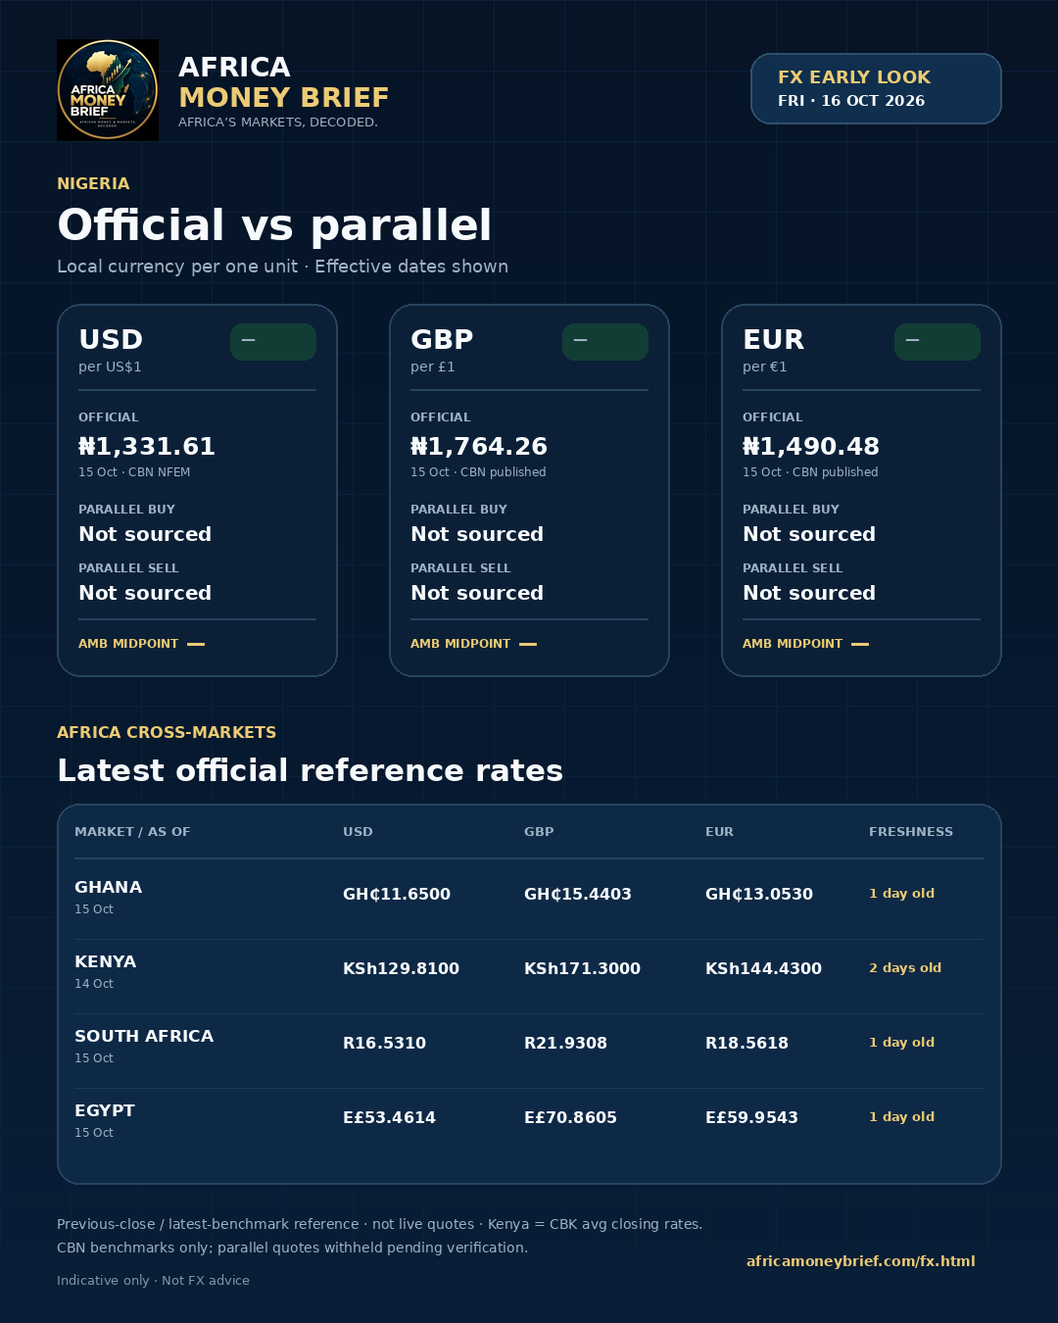
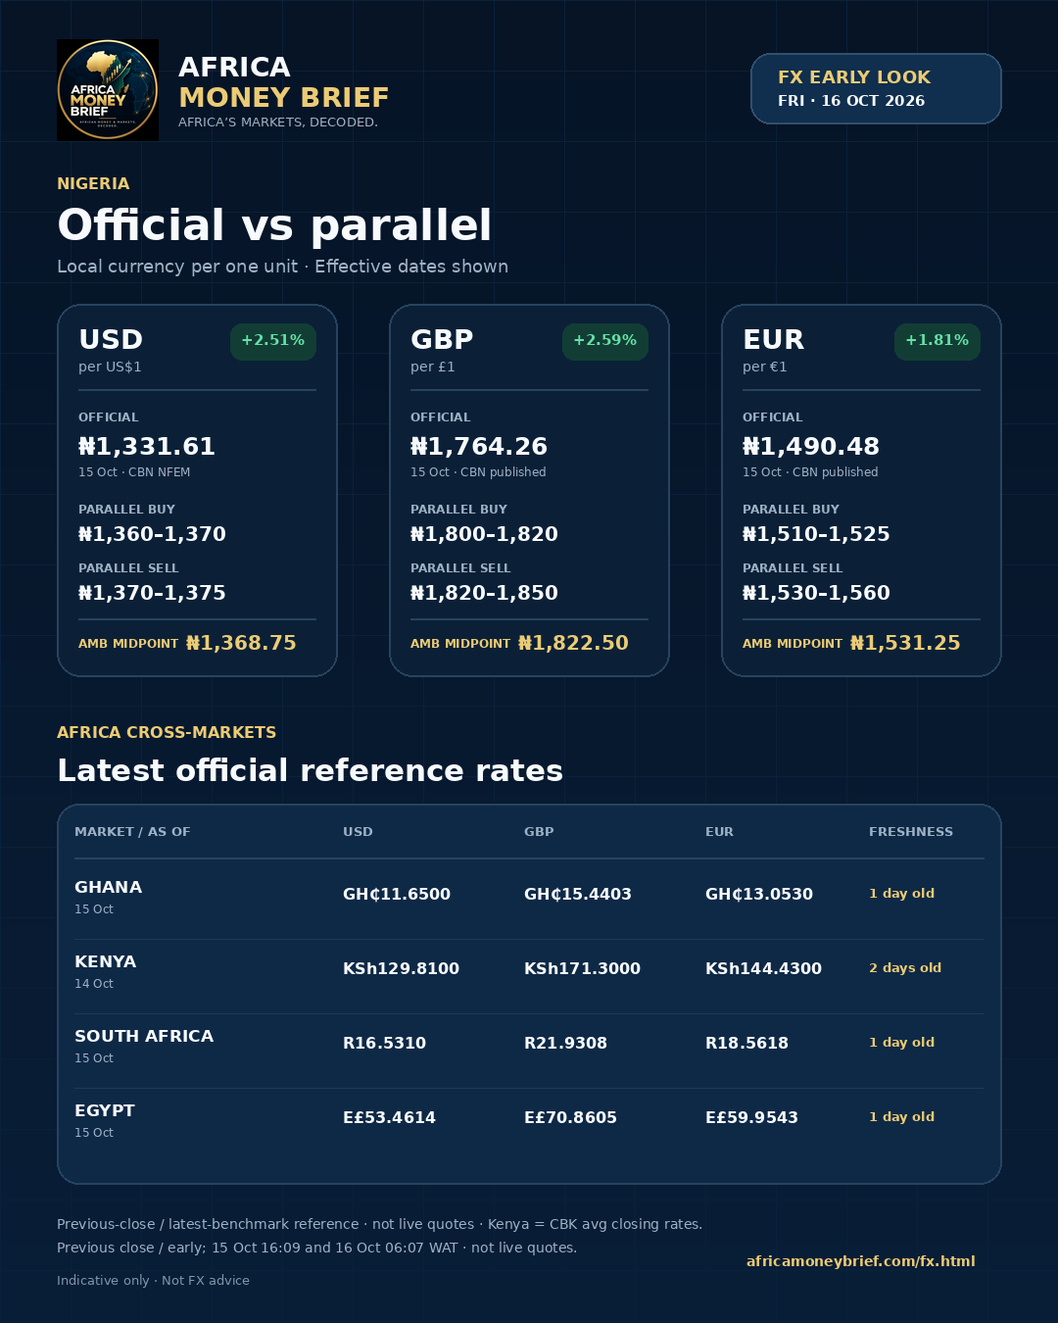
VALIDATED Early Look 2026-10-16

diff --git a/fx.html b/fx.html
@@ -4,11 +4,11 @@
 <script defer src="assets/privacy.js"></script>
 <meta charset="utf-8"><meta name="viewport" content="width=device-width,initial-scale=1"><meta name="description" content="Official and parallel exchange rates for Nigeria plus Ghana, Kenya, South Africa and Egypt, each with its effective date."><meta name="theme-color" content="#061426"><link rel="canonical" href="https://africamoneybrief.com/fx.html"><meta property="og:site_name" content="Africa Money Brief"><meta property="og:title" content="FX Markets | Africa Money Brief"><meta property="og:description" content="Official and parallel exchange rates for Nigeria plus Ghana, Kenya, South Africa and Egypt, each with its effective date."><meta property="og:image" content="https://africamoneybrief.com/assets/africa-money-brief-cover.png"><meta property="og:type" content="website"><meta name="twitter:card" content="summary_large_image"><title>FX Markets | Africa Money Brief</title><link rel="icon" type="image/png" href="assets/africa-money-brief-logo.png"><link rel="stylesheet" href="styles.css"><link rel="stylesheet" href="assets/redesign.css"></head><body><header><a class="logo brand-logo" href="index.html"><img src="assets/africa-money-brief-logo.png" alt="Africa Money Brief logo"><span>AFRICA <em>MONEY BRIEF</em><small>AFRICA’S MARKETS, DECODED.</small></span></a><nav><a class="" href="index.html">HOME</a><a class="active" href="fx.html">FX</a><a class="" href="capital-markets.html">CAPITAL MARKETS</a><a class="" href="money-rates.html">MONEY &amp; RATES</a><a class="" href="real-estate.html">REAL ESTATE</a><a class="" href="data.html">DATA</a><a class="" href="archive.html">ARCHIVE</a><a class="x" href="https://x.com/AMBriefDaily">Follow @AMBriefDaily ↗</a></nav></header>
 <main><section class="subhero"><div><p class="eyebrow">FX MARKETS</p><h1>Currencies.<br><i>Clearly decoded.</i></h1><p class="lead">Official rates, parallel markets, spreads, reserves and the policy forces moving African currencies.</p></div><div class="subhero-brand"><img src="assets/africa-money-brief-logo.png" alt="Africa Money Brief"><span>AFRICA’S MARKETS,<br><b>DECODED.</b></span></div></section>
-<div class="v2"><section class="section" style="padding-bottom:0"><!--AMB:early-latest--><div class="v2"><details id="early-look-2026-10-16" open><summary>16 Oct · Early Look (pre-market)</summary><section class="section"><p class="eyebrow">FX EARLY LOOK · 16 OCT 2026 · PRE-MARKET</p><p class="lead">Latest-benchmark reference only; Nigeria parallel quotes withheld pending verification. Each figure carries its own effective date.</p>
-<div class="tw"><table><thead><tr><th>Currency</th><th>Nigeria official</th><th>Parallel buy / sell</th><th>Premium</th></tr></thead><tbody><tr><td>USD</td><td>₦1,331.61 <small>(15 Oct, CBN selling)</small></td><td>Not sourced</td><td class="prem">—</td></tr><tr><td>GBP</td><td>₦1,764.26 <small>(15 Oct, CBN selling)</small></td><td>Not sourced</td><td class="prem">—</td></tr><tr><td>EUR</td><td>₦1,490.48 <small>(15 Oct, CBN selling)</small></td><td>Not sourced</td><td class="prem">—</td></tr></tbody></table></div>
-<p class="fine">CBN benchmark rates are those of 15 Oct (16 Oct not yet posted; the NFEM average reflects interbank deals only). Nigeria parallel-market buy/sell ranges are withheld in this Early Look: fewer than two independent, reasonably current, timestamped observations could be verified per currency (BLOCKED_SOURCE).</p>
+<div class="v2"><section class="section" style="padding-bottom:0"><!--AMB:early-latest--><div class="v2"><details id="early-look-2026-10-16" open><summary>16 Oct · Early Look (pre-market)</summary><section class="section"><p class="eyebrow">FX EARLY LOOK · 16 OCT 2026 · PRE-MARKET</p><p class="lead">Previous-close and latest-benchmark reference only; not live opening quotes. Each figure carries its own effective date.</p>
+<div class="tw"><table><thead><tr><th>Currency</th><th>Nigeria official</th><th>Parallel buy / sell</th><th>Premium</th></tr></thead><tbody><tr><td>USD</td><td>₦1,331.61 <small>(15 Oct, CBN selling)</small></td><td>₦1,360–1,370 / ₦1,370–1,375</td><td class="prem">+2.51%</td></tr><tr><td>GBP</td><td>₦1,764.26 <small>(15 Oct, CBN selling)</small></td><td>₦1,800–1,820 / ₦1,820–1,850</td><td class="prem">+2.59%</td></tr><tr><td>EUR</td><td>₦1,490.48 <small>(15 Oct, CBN selling)</small></td><td>₦1,510–1,525 / ₦1,530–1,560</td><td class="prem">+1.81%</td></tr></tbody></table></div>
+<p class="fine">CBN benchmark rates are those of 15 Oct (16 Oct not yet posted; the NFEM average reflects interbank deals only). Nigeria parallel ranges combine an explicitly timestamped 15 Oct previous-close observation, a 16 Oct 06:07 WAT early observation and a separate 16 Oct market report; they are not live opening quotes. Aggregated from multiple independent market sources.</p>
 <h3 style="margin:22px 0 10px">Africa cross-markets</h3><div class="tw"><table><thead><tr><th>Market</th><th>USD</th><th>GBP</th><th>EUR</th><th>As of</th></tr></thead><tbody><tr><td>Ghana</td><td>GH₵11.6500</td><td>GH₵15.4403</td><td>GH₵13.0530</td><td>15 Oct <span class="chip ok">1 day old</span></td></tr><tr><td>Kenya</td><td>KSh129.8100</td><td>KSh171.3000</td><td>KSh144.4300</td><td>14 Oct <span class="chip warn">2 days old</span></td></tr><tr><td>South Africa</td><td>R16.5310</td><td>R21.9308</td><td>R18.5618</td><td>15 Oct <span class="chip ok">1 day old</span></td></tr><tr><td>Egypt</td><td>E£53.4614</td><td>E£70.8605</td><td>E£59.9543</td><td>15 Oct <span class="chip ok">1 day old</span></td></tr></tbody></table></div>
-<p class="fine">Latest official reference values with effective dates: Ghana mid of Bank of Ghana buy/sell (15 Oct); Kenya CBK commercial-banks’ average closing rates (market close 14 Oct; not a standalone buy or sell quote); South Africa SARB weighted-average bank rates (15 Oct; carried forward, 16 Oct fixing not yet published and the HomePageRates endpoint was unreachable from the preparation environment); Egypt mid of CBE buy/sell (15 Oct). Informational only; not financial or FX advice. The Flagship edition follows after verification.</p></section></details></div><!--/AMB:early-latest--></section><!--AMB:flagship--><section class="section" id="flagship-2026-10-15"><p class="eyebrow">FX FLAGSHIP · EDITION 15 OCT 2026</p><h2 class="h2s" style="margin-top:8px">Nigeria — official vs parallel</h2>
+<p class="fine">Latest official reference values with effective dates: Ghana mid of Bank of Ghana buy/sell (15 Oct); Kenya CBK commercial-banks’ average closing rates (market close 14 Oct; not a standalone buy or sell quote); South Africa SARB weighted-average bank rates (15 Oct, reverified through HomePageRates; 16 Oct fixing not yet published at the Early Look cutoff); Egypt mid of CBE buy/sell (15 Oct). Informational only; not financial or FX advice. The Flagship edition follows after verification.</p></section></details></div><!--/AMB:early-latest--></section><!--AMB:flagship--><section class="section" id="flagship-2026-10-15"><p class="eyebrow">FX FLAGSHIP · EDITION 15 OCT 2026</p><h2 class="h2s" style="margin-top:8px">Nigeria — official vs parallel</h2>
 <p class="lead">Local currency per one unit of foreign currency. Every figure carries its effective date.</p>
 <div class="panel"><div class="ph"><h3>USD → NGN <small>per US$1</small></h3><span class="prem big">+2.81%</span></div><div class="grid4"><div><small>CBN NFEM rate · 14 Oct</small><b>₦1,332.59</b></div><div><small>Parallel buy</small><b>₦1,365–1,375</b></div><div><small>Parallel sell</small><b>₦1,375–1,390</b></div><div><small>AMB midpoint</small><b class="gold">₦1,376.25</b></div></div><p class='basis'>CBN NFEM rate (volume-weighted; the CBN’s official selling rate for the day), 14 Oct. The premium uses this rate. Source: <a href='https://www.cbn.gov.ng/rates/ExchRateByCurrency.html'>CBN ↗</a></p></div><div class="panel"><div class="ph"><h3>GBP → NGN <small>per £1</small></h3><span class="prem big">+3.37%</span></div><div class="grid4"><div><small>CBN published rate · 14 Oct</small><b>₦1,765.55</b></div><div><small>Parallel buy</small><b>₦1,800–1,850</b></div><div><small>Parallel sell</small><b>₦1,820–1,880</b></div><div><small>AMB midpoint</small><b class="gold">₦1,837.50</b></div></div><p class='basis'>CBN published selling rate, 14 Oct. The premium uses this rate. Source: <a href='https://www.cbn.gov.ng/rates/ExchRateByCurrency.html'>CBN ↗</a></p></div><div class="panel"><div class="ph"><h3>EUR → NGN <small>per €1</small></h3><span class="prem big">+2.24%</span></div><div class="grid4"><div><small>CBN published rate · 14 Oct</small><b>₦1,491.57</b></div><div><small>Parallel buy</small><b>₦1,500–1,550</b></div><div><small>Parallel sell</small><b>₦1,520–1,590</b></div><div><small>AMB midpoint</small><b class="gold">₦1,540.00</b></div></div><p class='basis'>CBN published selling rate, 14 Oct. The premium uses this rate. Source: <a href='https://www.cbn.gov.ng/rates/ExchRateByCurrency.html'>CBN ↗</a></p></div>
 <p class="fine">Nigeria’s 15 Oct public parallel-market observations showed material cross-source dispersion. The displayed ranges preserve five independent same-day observations rather than force a single quote. CBN benchmark rates are those of 14 Oct. Aggregated from multiple independent market sources. Premium = parallel buying midpoint ÷ CBN selling rate − 1. Indicative only; not FX advice.</p>

diff --git a/index.html b/index.html
@@ -8,7 +8,7 @@
 <section class="hero"><div><p class="eyebrow">AFRICA’S MARKETS, MADE CLEAR</p><h1>Know the rates.<br><i>Understand the move.</i></h1><p class="lead">African FX benchmarks, central-bank signals and market context — concise enough for your morning, rigorous enough for your decisions.</p><div class="actions"><a class="btn" href="fx.html">Today’s FX brief →</a><a class="ghost" href="https://x.com/AMBriefDaily">Follow on X</a></div><div class="trust">✓ Source-aware &nbsp;&nbsp; ✓ Time-stamped &nbsp;&nbsp; ✓ Official vs. market clearly labeled</div></div>
 <!--AMB:board--><div class="board"><div class="boardtop"><span>NIGERIA · PARALLEL BUY MIDPOINT</span><span class="live">EDITION 15 OCT</span></div><div id="mini"><div class="r"><div>USD/NGN<small>CBN NFEM ₦1,332.59 · 14 Oct</small></div><strong>₦1,370.00 <span class="prem" style="color:#64e2a6;font-size:14px">+2.81%</span></strong></div><div class="r"><div>GBP/NGN<small>CBN published ₦1,765.55 · 14 Oct</small></div><strong>₦1,825.00 <span class="prem" style="color:#64e2a6;font-size:14px">+3.37%</span></strong></div><div class="r"><div>EUR/NGN<small>CBN published ₦1,491.57 · 14 Oct</small></div><strong>₦1,525.00 <span class="prem" style="color:#64e2a6;font-size:14px">+2.24%</span></strong></div></div><p id="verified">Premium = parallel buying midpoint ÷ CBN selling rate − 1. Edition 15 Oct. Indicative only.</p></div><!--/AMB:board--></section>
 
-<!--AMB:early-home--><div class="v2"><section class="section"><div class="heading"><div><p class="eyebrow">TODAY'S FX EARLY LOOK · 16 OCT 2026</p><h2>Previous close and latest benchmarks</h2></div><p>Pre-market reference; not live opening quotes. <a href="fx.html#early-look-2026-10-16" style="color:var(--gold)">Full Early Look →</a></p></div><div class="dashgrid"><div class="metric"><small>USD / NGN · 15 Oct</small><strong>—</strong><span>CBN ₦1,331.61 · Parallel range withheld</span></div><div class="metric"><small>GBP / NGN · 15 Oct</small><strong>—</strong><span>CBN ₦1,764.26 · Parallel range withheld</span></div><div class="metric"><small>EUR / NGN · 15 Oct</small><strong>—</strong><span>CBN ₦1,490.48 · Parallel range withheld</span></div><div class="metric"><small>AFRICA CROSS-MARKETS</small><strong>4 markets</strong><span>GH 15 Oct · KE 14 Oct · ZA 15 Oct · EG 15 Oct</span></div></div><p class="fine">Nigeria parallel ranges: previous close / early; aggregated from multiple independent market sources. Effective dates are shown in the full edition. Indicative only; not FX advice.</p></section></div><!--/AMB:early-home--><div class="mr"><section class="section" id="calc"><div class="heading"><div><p class="eyebrow">ESTIMATE EARNINGS</p><h2>What would my money earn?</h2></div><p>Pick a Treasury bill or deposit, enter an amount, and see the simple interest. <a href="money-rates.html" style="color:var(--gold)">Compare all rates →</a></p></div><div class="calc" id="amb-calc"><div><div class="f"><label for="cp">PRODUCT</label><select id="cp"></select></div><div class="f"><label for="ca">AMOUNT</label><input id="ca" type="number" inputmode="decimal" min="0" step="1000" value="10000000"></div><div class="f" id="cmw"><label for="cm">MONTHS HELD</label><input id="cm" type="number" min="1" max="12" step="1" value="12"></div></div>
+<!--AMB:early-home--><div class="v2"><section class="section"><div class="heading"><div><p class="eyebrow">TODAY'S FX EARLY LOOK · 16 OCT 2026</p><h2>Previous close and latest benchmarks</h2></div><p>Pre-market reference; not live opening quotes. <a href="fx.html#early-look-2026-10-16" style="color:var(--gold)">Full Early Look →</a></p></div><div class="dashgrid"><div class="metric"><small>USD / NGN · 15 Oct</small><strong>+2.51%</strong><span>CBN ₦1,331.61 · Buy ₦1,360–₦1,370 · Sell ₦1,370–₦1,375</span></div><div class="metric"><small>GBP / NGN · 15 Oct</small><strong>+2.59%</strong><span>CBN ₦1,764.26 · Buy ₦1,800–₦1,820 · Sell ₦1,820–₦1,850</span></div><div class="metric"><small>EUR / NGN · 15 Oct</small><strong>+1.81%</strong><span>CBN ₦1,490.48 · Buy ₦1,510–₦1,525 · Sell ₦1,530–₦1,560</span></div><div class="metric"><small>AFRICA CROSS-MARKETS</small><strong>4 markets</strong><span>GH 15 Oct · KE 14 Oct · ZA 15 Oct · EG 15 Oct</span></div></div><p class="fine">Nigeria parallel ranges: previous close / early; aggregated from multiple independent market sources. Effective dates are shown in the full edition. Indicative only; not FX advice.</p></section></div><!--/AMB:early-home--><div class="mr"><section class="section" id="calc"><div class="heading"><div><p class="eyebrow">ESTIMATE EARNINGS</p><h2>What would my money earn?</h2></div><p>Pick a Treasury bill or deposit, enter an amount, and see the simple interest. <a href="money-rates.html" style="color:var(--gold)">Compare all rates →</a></p></div><div class="calc" id="amb-calc"><div><div class="f"><label for="cp">PRODUCT</label><select id="cp"></select></div><div class="f"><label for="ca">AMOUNT</label><input id="ca" type="number" inputmode="decimal" min="0" step="1000" value="10000000"></div><div class="f" id="cmw"><label for="cm">MONTHS HELD</label><input id="cm" type="number" min="1" max="12" step="1" value="12"></div></div>
 <div class="res"><span id="cl">Estimated interest</span><strong id="ci">—</strong><span id="cs">Loading rates…</span><span style="font-size:12px;color:#8ba0b3">Indicative gross interest before tax, fees and exchange-rate changes. Source dates and older-data warnings appear above. Tiered bank rates depend on the entered balance; banking averages are not offers. Bills are held to maturity; deposit rates are assumed unchanged.</span></div></div>
 <script src="assets/calc.js?v=20261009-tiers"></script></section></div><!--AMB:glance--><div class="v2"><section class="section"><div class="heading"><div><p class="eyebrow">TODAY AT A GLANCE</p><h2>Premium: parallel buy vs CBN selling rate</h2></div><p>Edition 15 Oct 2026. CBN NFEM rate for USD; GBP and EUR as dated. <a href="fx.html" style="color:var(--gold)">Full FX brief →</a></p></div><div class="dashgrid"><div class="metric"><small>USD / NGN</small><strong>+2.81%</strong><span>Parallel buy mid ₦1,370.00 vs CBN ₦1,332.59</span></div><div class="metric"><small>GBP / NGN</small><strong>+3.37%</strong><span>Parallel buy mid ₦1,825.00 vs CBN ₦1,765.55</span></div><div class="metric"><small>EUR / NGN</small><strong>+2.24%</strong><span>Parallel buy mid ₦1,525.00 vs CBN ₦1,491.57</span></div><div class="metric"><small>Coverage</small><strong>5 markets</strong><span>NG · GH · KE · ZA · EG</span></div></div></section></div><!--/AMB:glance--><section class="section market-portals"><div class="heading"><div><p class="eyebrow">EXPLORE AMB</p><h2>Four markets. One African lens.</h2></div><p>Move from the daily headline to the market that matters to you.</p></div><div class="portalgrid">
 <a class="portal fxp" href="fx.html"><span class="portal-icon">FX</span><small>CURRENCIES</small><h3>FX Markets</h3><p>Official rates, parallel markets, spreads, reserves and currency policy.</p><b>Open FX →</b></a>

diff --git a/tools/render_fx_social_text.py b/tools/render_fx_social_text.py
@@ -242,7 +242,7 @@ def render_early(data):
     gh_move = pct(m["Ghana"]["rates"]["USD"], gh["rates"]["USD"]) if gh else 0
     lines += row("Ghana", "🇬🇭", "GH₵", f"Bank of Ghana interbank mid-rates; the cedi {'firmed' if gh_move < 0 else 'softened'} {abs(gh_move):.2f}% against the US dollar versus the {date_label(gh['asof'])} reference.")
     lines += row("Kenya", "🇰🇪", "KSh", "CBK commercial-banks’ average closing rates (not a standalone buy or sell quote)." + move("Kenya", "KES"))
-    lines += row("South Africa", "🇿🇦", "R", f"SARB weighted-average bank rates at about 10:30 on {date_label(m['South Africa']['asof'])}; carried forward from the latest verified SARB table." + move("South Africa", "ZAR"))
+    lines += row("South Africa", "🇿🇦", "R", f"SARB weighted-average bank rates at about 10:30 on {date_label(m['South Africa']['asof'])}; reverified through HomePageRates." + move("South Africa", "ZAR"))
     lines += row("Egypt", "🇪🇬", "E£", "CBE buy/sell mid-rates." + move("Egypt", "EGP"))
     lines += [
         "SOURCES & METHODOLOGY",

diff --git a/handoff/fx/2026-10-16-early.md b/handoff/fx/2026-10-16-early.md
@@ -1,59 +1,54 @@
-# Early Look 2026-10-16 — preparer handoff note
+# Early Look 2026-10-16 — validator publication note
 
-**Status: PREPARED — NOT PUBLISHED**
-**Flags: BLOCKED_SOURCE (Nigeria parallel — fewer than two verifiable current timestamped observations per currency; SARB HomePageRates unreachable)**
+**Status: VALIDATED — APPROVED FOR PUBLICATION**
 
-- Branch: `staging/claude-fx`, synchronized to `main` at `761bb98` before preparation.
-- Prepared package commit SHA: see the final line of this note (recorded in a follow-up commit).
-- WAT verification timestamp: 16 Oct 2026, ~06:25 WAT.
+- Prepared candidate: `304911c` plus handoff metadata commit `a5329f6`, branch `staging/claude-fx`.
+- Independent validation completed 16 Oct 2026 at 07:10 WAT.
+- Validator correction: restored Nigeria previous-close/early ranges after corroborating all three currencies with three independent observations; SARB's 15 Oct values were directly reverified.
 
 ## Official sources and effective dates
 
-| Market | Source URL | Effective | USD / GBP / EUR | Label |
-|---|---|---|---|---|
-| Nigeria | https://www.cbn.gov.ng/api/GetAllExchangeRates | 15 Oct (16 Oct not yet posted) | CBN selling 1331.6139 / 1764.2552 / 1490.4754 | latest available benchmark |
-| Ghana | https://www.bog.gov.gh/treasury-and-the-markets/daily-interbank-fx-rates/ | 15 Oct | mids 11.6500 / 15.4403 / 13.0530 | latest dated BoG table |
-| Kenya | https://www.centralbank.go.ke/cbk-indicative-rates/ (Daily KES PDF, listed 15/10/2026) | market close 14 Oct | 129.81 / 171.30 / 144.43 | commercial-banks' average closing rates, not buy/sell |
-| South Africa | SARB HomePageRates | 15 Oct (carried forward) | 16.5310 / 21.9308 / 18.5618 | carried forward |
-| Egypt | https://www.cbe.org.eg/en/economic-research/statistics/cbe-exchange-rates | 15 Oct ("Rates for Date 15/10/2026") | mids 53.4614 / 70.8605 / 59.9543 | latest available benchmark |
+| Market | Source URL | Effective | Final USD / GBP / EUR |
+|---|---|---|---|
+| Nigeria | https://www.cbn.gov.ng/api/GetAllExchangeRates | 15 Oct | CBN selling 1331.6139 / 1764.2552 / 1490.4754 |
+| Ghana | https://www.bog.gov.gh/treasury-and-the-markets/daily-interbank-fx-rates/ | 15 Oct | mids 11.6500 / 15.4403 / 13.0530 |
+| Kenya | https://www.centralbank.go.ke/cbk-indicative-rates/ | market close 14 Oct | 129.81 / 171.30 / 144.43 — commercial-banks' average closing rates, not buy/sell quotes |
+| South Africa | https://custom.resbank.co.za/SarbWebApi/WebIndicators/HomePageRates | 15 Oct | 16.5310 / 21.9308 / 18.5618 |
+| Egypt | https://www.cbe.org.eg/en/economic-research/statistics/cbe-exchange-rates | 15 Oct | mids 53.4614 / 70.8605 / 59.9543 |
 
-## Calculations
+## Nigeria previous-close / early validation
 
-- Ghana mids: USD (11.6442+11.6558)/2 = 11.6500; GBP (15.4320+15.4486)/2 = 15.4403; EUR (13.0459+13.0600)/2 = 13.05295 → 13.0530 (BoG published mid 13.0530).
-- Egypt mids: USD (53.3914+53.5314)/2 = 53.4614; GBP (70.7490+70.9720)/2 = 70.8605; EUR (59.8731+60.0355)/2 = 59.9543.
-- Nigeria uses CBN selling rates (NFEM for USD); no premium computed because no parallel data is published.
+Sources reviewed:
 
-## Carried-forward values
+- Source A: 15 Oct 16:09 WAT previous close — USD 1360/1370, GBP 1820/1850, EUR 1525/1560.
+- Source B: 16 Oct 06:07 WAT early observation — USD 1370/1375, GBP 1800/1820, EUR 1510/1530.
+- Source C: separate 16 Oct market report — USD 1365/1375, GBP 1810/1850, EUR 1520/1560.
 
-- **South Africa 15 Oct** (16.5310 / 21.9308 / 18.5618): the SARB HomePageRates endpoint is blocked by this environment's egress proxy (HTTP 403 CONNECT), and 16 Oct 10:30 fixing does not exist yet. Values are the latest verified SARB figures (15 Oct, from the validated 15 Oct Flagship) with their true effective date. **Codex: please re-read via HomePageRates.**
+Final ranges preserve observed dispersion and are explicitly labelled previous close / early, not live opening quotes:
 
-## Nigeria parallel — BLOCKED_SOURCE
+| Currency | Buy range | Sell range | Buy midpoint | Sell midpoint | AMB midpoint | Premium vs CBN selling |
+|---|---:|---:|---:|---:|---:|---:|
+| USD | 1360–1370 | 1370–1375 | 1365.00 | 1372.50 | 1368.75 | +2.51% |
+| GBP | 1800–1820 | 1820–1850 | 1810.00 | 1835.00 | 1822.50 | +2.59% |
+| EUR | 1510–1525 | 1530–1560 | 1517.50 | 1545.00 | 1531.25 | +1.81% |
 
-Parallel-provider pages could not be fetched from this environment (blocked by the proxy). Only search-result snippets dated 15 Oct without clock times were available:
+Premium formula: `(parallel buying midpoint / CBN selling rate - 1) × 100`.
 
-| Pair | Source A (15 Oct, no time shown) | Source B (15 Oct, no time shown) |
-|---|---|---|
-| USD | buy 1,375 / sell 1,390 | buy 1,355–1,365 / sell 1,375–1,390 (secondary news summary) |
-| GBP | sell 1,880 only | none verifiable (other source's buy/sell labels ambiguous) |
-| EUR | buy 1,550 / sell 1,590 | none verifiable |
+Public attribution is preserved exactly: “Aggregated from multiple independent market sources.” Provider names remain in validator evidence only, not in the public package.
 
-These lack verifiable timestamps and (GBP/EUR) a second independent observation, so they were **not used**. Dataset omits parallel fields; image shows "Not sourced"; text states ranges are withheld. **Codex: if two independent timestamped observations per currency can be obtained, add them (with premium recomputed) or leave withheld.** No provider names or URLs are in the repository.
+## Arithmetic and freshness controls
 
-## Render / test results
+- CBN's 16 Oct row was not posted at the cutoff; Nigeria official values retain the true 15 Oct effective date.
+- Ghana values match Bank of Ghana buy/sell midpoints.
+- Kenya values are the CBK commercial-banks' average closing rates for 14 Oct, not standalone buy or sell quotes.
+- SARB HomePageRates directly returned the 15 Oct fixing; the 16 Oct fixing had not yet been published.
+- Egypt CBE mids recompute from 15 Oct buy/sell values: USD 53.4614, GBP 70.8605 and EUR 59.9543.
+- Material GBP and EUR dispersion carries observation counts, acknowledgement flags and documented reasons.
 
-- `python3 tools/render.py`: passed (site regions regenerated, includes new Early Look).
-- `tools/render_fx_social.py --input data/fx/early-2026-10-16.json`: passed, PNG 1080×1350, labelled FX EARLY LOOK.
-- `tools/render_fx_social_text.py --input data/fx/early-2026-10-16.json`: passed; five countries, FX URL, rates-vary/informational-only disclaimer present.
-- Tool change: removed hard-coded "reverified through HomePageRates" from the South Africa text line (now "carried forward from the latest verified SARB table"). Codex: adjust if SARB is re-read.
-- Visual check: every number, label, date and footnote in the PNG matches the dataset.
-- Provider-name grep over data/, assets/, html and handoff: clean.
+## Publication QA
 
-## Unresolved issues
+- Dataset schema, calculations, source dates, country/currency alignment and prior-session disclosures validated.
+- Site pages, feeds, social text and native image regenerated from the final dataset.
+- Image visually checked against the final dataset before publication.
 
-1. Nigeria parallel ranges/premiums unavailable (BLOCKED_SOURCE).
-2. SARB carried forward, unverified for 16 Oct.
-3. CBN 16 Oct and CBK 15 Oct close not yet published.
-
-PREPARED — NOT PUBLISHED
-
-Prepared package commit: `304911cc15f68d0c8e04fbe74eef4dfc5c55666d`
+VALIDATED — APPROVED FOR PUBLICATION
